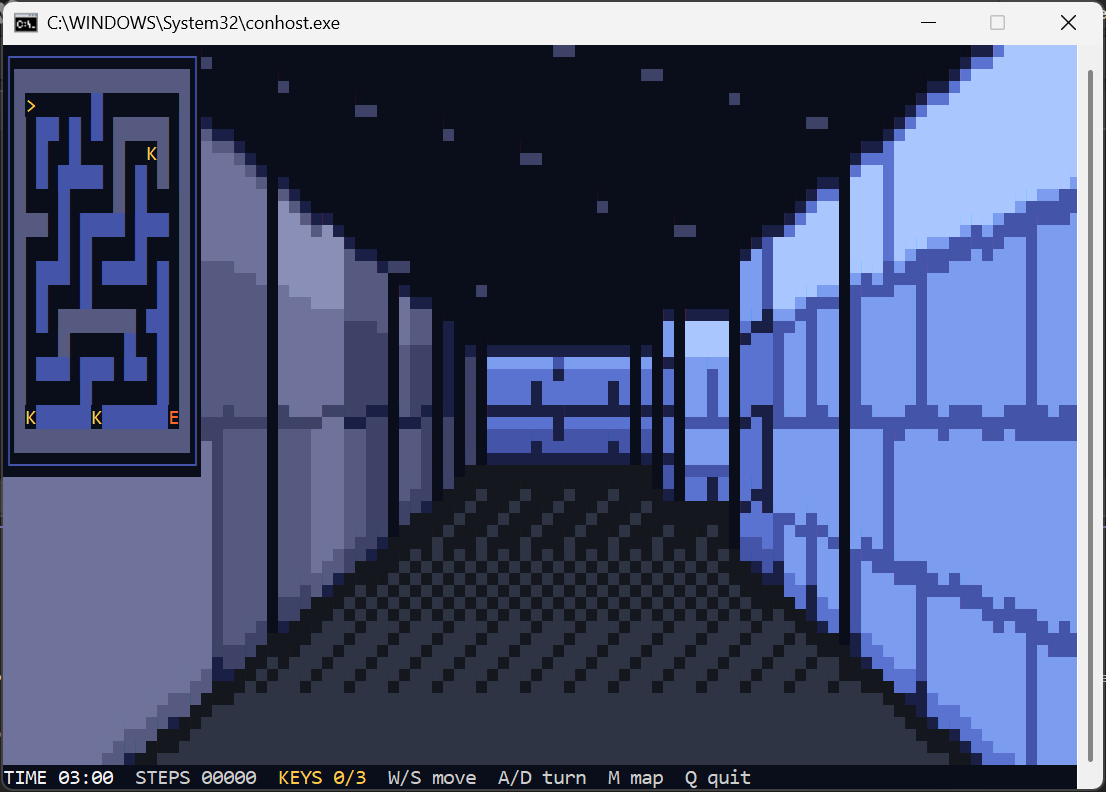
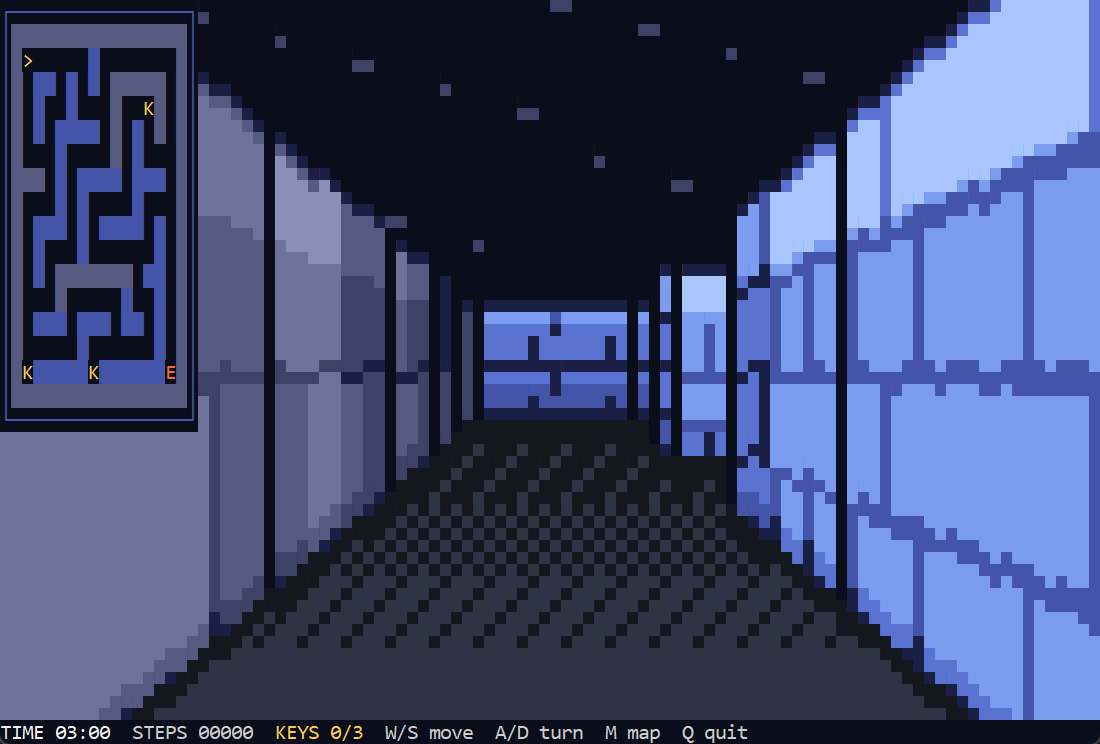
game-only screenshots for readme

diff --git a/README.md b/README.md
@@ -15,9 +15,11 @@ A first-person 3D raycasting maze game written in 32-bit x86 assembly (MASM + Ir
 - **Title, win and lose screens** – block-letter logo and banners, play again (Y/N).
 - **Integer maths only** – Q8 fixed point (value × 256), 360-entry sine table, no FPU or SSE.
 
-| Corridor (3D view + minimap) | Exit door (blinking) |
+| Corridor (3D view + minimap) | Key found |
 |---|---|
-| ![Corridor](screenshots/corridor.png) | ![Door](screenshots/door.png) |
+| ![Corridor](screenshots/corridor.png) | ![Key](screenshots/key.png) |
+| **Door locked** | **Escaped!** |
+| ![Door locked](screenshots/door_locked.png) | ![Win](screenshots/win.png) |
 | **Time up** | |
 | ![Lose](screenshots/lose.png) | |
 
